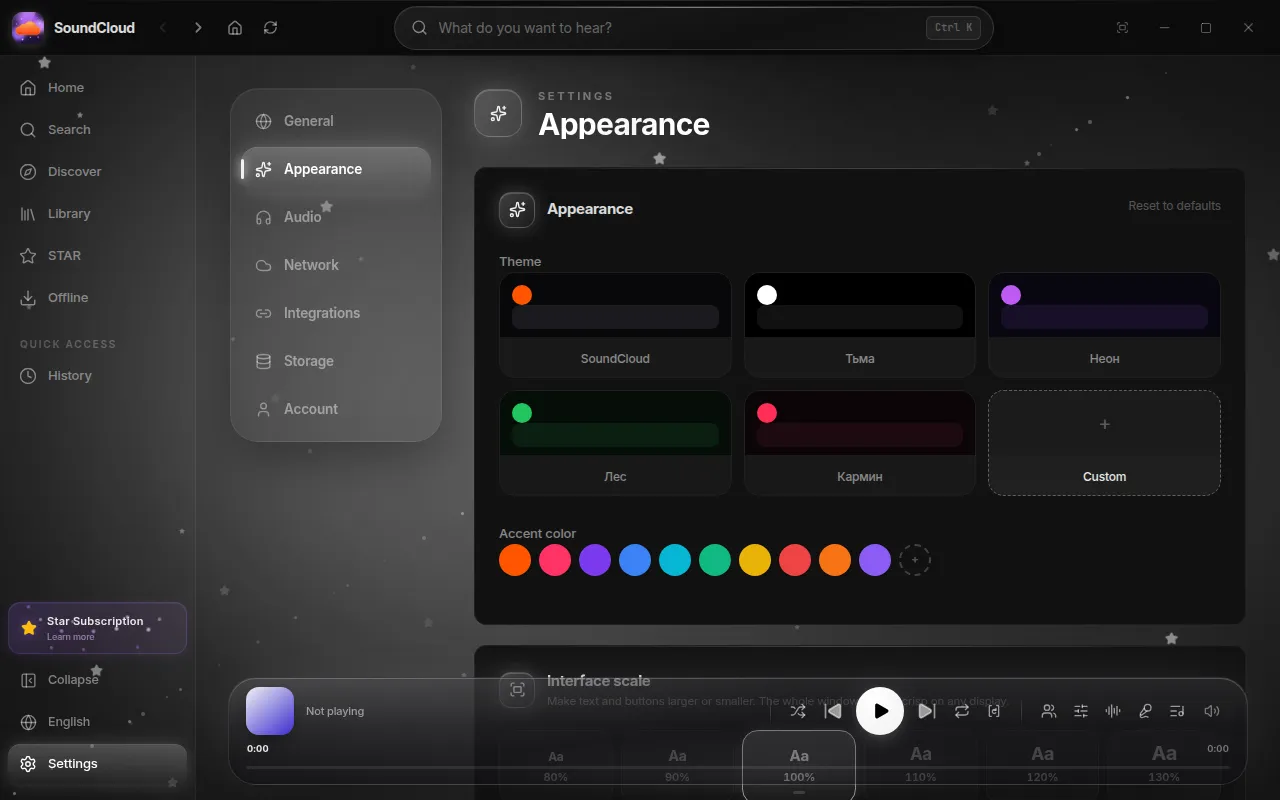
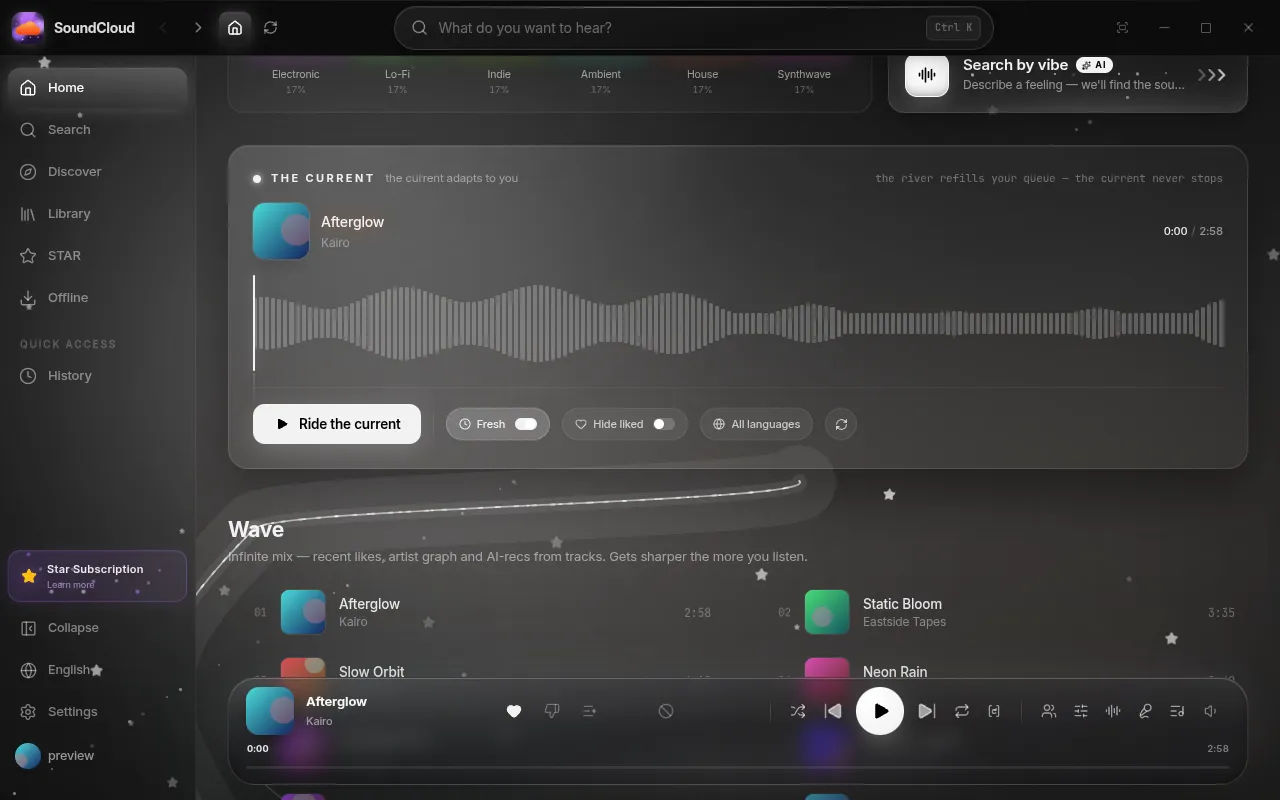
fix(themes): carbon keeps a light blur with flat surfaces, new previews

diff --git a/themes/carbon/theme.css b/themes/carbon/theme.css
@@ -1,14 +1,7 @@
-:root {
-  --glass-blur: 0px !important;
-  --glass-blur-strong: 0px !important;
-  --glass-blur-soft: 0px !important;
-}
-
-*,
-*::before,
-*::after {
-  backdrop-filter: none !important;
-  -webkit-backdrop-filter: none !important;
+html:not([data-perf="light"]) {
+  --glass-blur: 10px;
+  --glass-blur-strong: 12px;
+  --glass-blur-soft: 10px;
 }
 
 [data-ui="titlebar"] {
